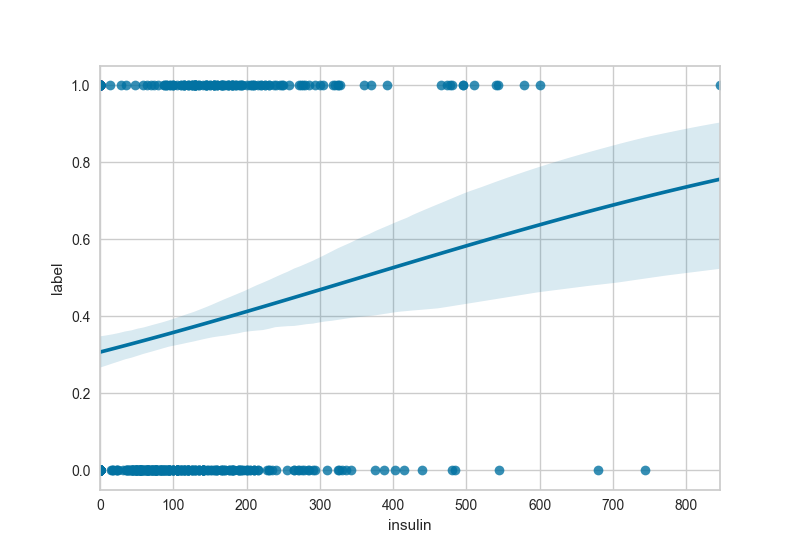
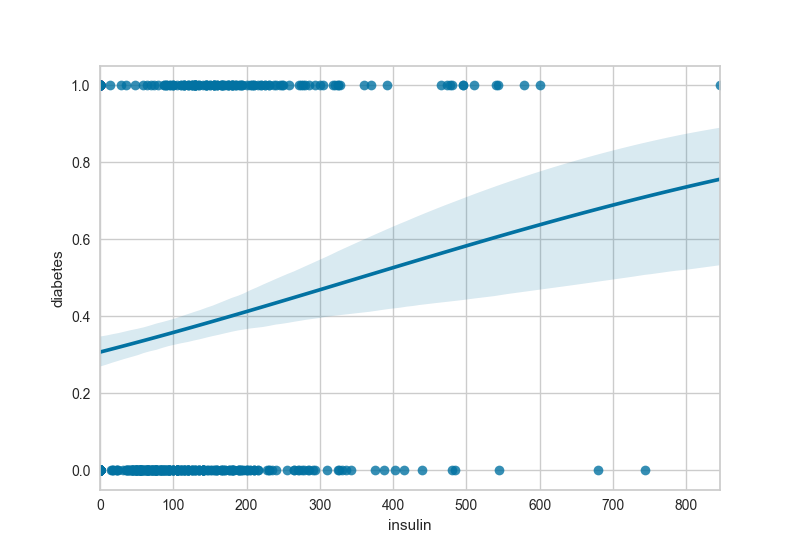
Logistic Update

diff --git a/ExampleLogisticRegression.py b/ExampleLogisticRegression.py
@@ -4,8 +4,8 @@ import controller as CT
 # # # A simple example. Just choose a model,
 # input data, independent and dependent variables,
 # the output will be a series of stories about fitting the data with this model.
-# Step 1: Read the example dataset about diabetes, the 'label' uses 0 and 1 to represent not having diabetes and having diabetes
-col_names = ['pregnant', 'glucose', 'bp', 'skin', 'insulin', 'bmi', 'pedigree', 'age', 'label']
+# Step 1: Read the example dataset about diabetes, the dependent column (target variable) should use 0 or 1 to represent not having diabetes or having diabetes
+col_names = ['pregnant', 'glucose level', 'blood pressure', 'skin', 'insulin level', 'BMI', 'pedigree', 'age', 'diabetes']
 diabetes_dataset = read_csv("./data/diabetes.csv", header=None, names=col_names)
 # Step 2: Choose the model (which is logistic regression here) and the independent and dependent variables, the stories will be generated.
-CT.LogisticModelStats(diabetes_dataset, ['pregnant', 'glucose', 'bp', 'skin', 'insulin', 'bmi', 'pedigree', 'age'],'label')
+CT.LogisticModelStats(diabetes_dataset, [ 'glucose level', 'blood pressure', 'insulin level', 'BMI', 'age'],'diabetes')

diff --git a/view.py b/view.py
@@ -38,6 +38,7 @@ DecisionTree2 = env.get_template('decisiontree2.txt')
 DecisionTree3 = env.get_template('decisiontree3.txt')
 logisticSummary = env.get_template('logisticSummary.txt')
 logisticSummary2 = env.get_template('logisticSummary2')
+logisticSummary3 = env.get_template('logisticSummary3.txt')
 gamStory = env.get_template('gamStory.txt')
 GAMslinear_stats = env.get_template('GAMsLinearL1')
 GAMslinear_R2 = env.get_template('GAMsLinearL2')
@@ -358,7 +359,7 @@ def LogisticModelStats_view(data, Xcol, ycol, logisticData1, logisticData2, r2, 
     i = 0
 
     # Add to dashbord Model Statistics
-    intro = linearSummary2.render(r2=r2, indeNum=np.size(Xcol), modelName="Logistic Model", Xcol=Xcol,
+    intro = logisticSummary3.render(r2=r2, indeNum=np.size(Xcol), modelName="Logistic Model", Xcol=Xcol,
                                   ycol=ycol, qs=questionset, t=9)
     aim = Xcol
     aim.insert(0, ycol)
